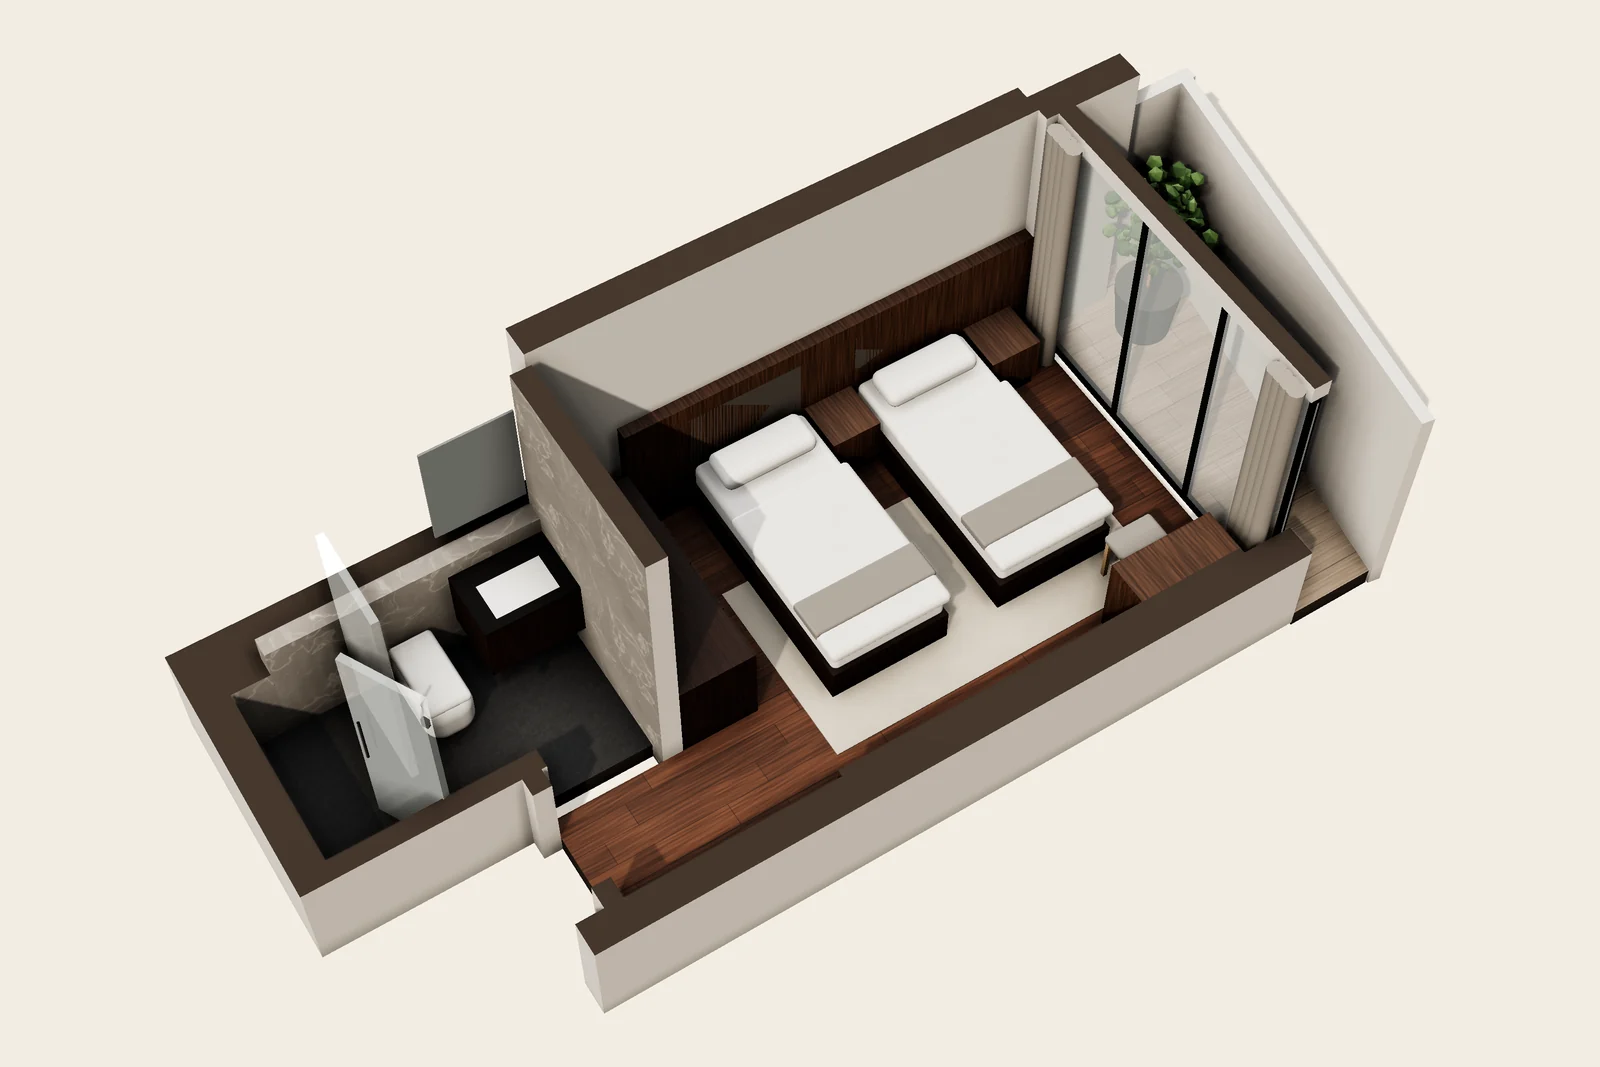
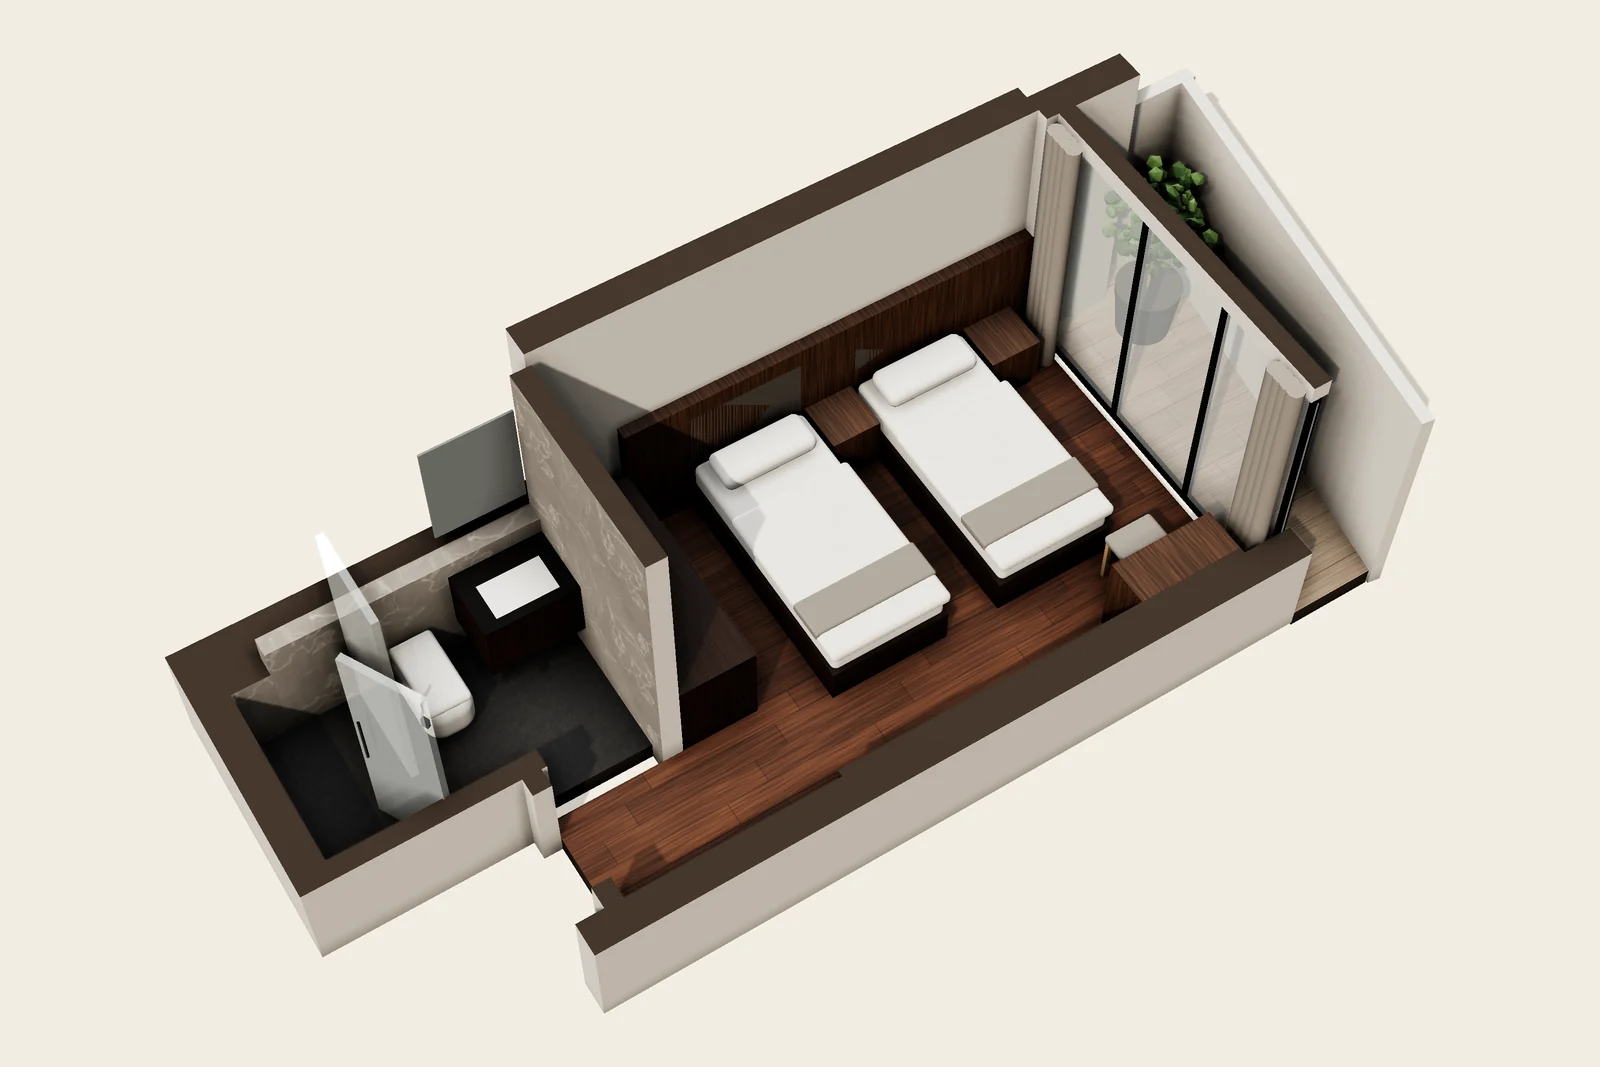
3D rooms: no rugs
The rooms don't have rugs (the plan draws them, the rooms don't), so
they're gone from the pictures and the explorable 3D view.

Changed region(s): [[0.4375, 0.4639, 0.7188, 0.7113]]

diff --git a/assets/js/rooms3d.js b/assets/js/rooms3d.js
@@ -152,7 +152,6 @@ export function materials() {
     walnut: texture(1024, 1.2, veneer({ seed: 5, dark: 0x3a2619, light: 0x6e4a32 })),
     marble: texture(1024, 1.2, marble({ seed: 11, base: 0x9a948d, vein: 0xd9d4cc })),
     granite: texture(512, 0.6, speckle({ seed: 13, base: 0x2d2c2b, amount: 0.04 })),
-    rug: texture(512, 0.8, cloth({ seed: 17, base: 0xd3c8b8, amp: 9 })),
     limestone: texture(1024, 2.4, tiles({ seed: 23, base: 0xe4ddd1, vein: 0xf1ece4, cols: 2, rows: 4 })),
     darkStone: texture(1024, 1.2, marble({ seed: 29, base: 0x3a3836, vein: 0xbdb8b0 })),
     tile: texture(1024, 2.4, tiles({ seed: 31, base: 0x8d8a85, vein: 0x9b9893, cols: 2, rows: 4 })),
@@ -183,7 +182,6 @@ export function materials() {
     upholstery: std({ color: 0x55504b, roughness: 0.95 }),
     seat: std({ color: 0x8f8a83, roughness: 0.95 }),
     oak: std({ color: 0xc8a57a, roughness: 0.6 }),
-    rug: std({ map: tex.rug, roughness: 1 }),
     curtain: std({ color: 0x9b948b, roughness: 1 }),
     black: std({ color: 0x1c1c1c, roughness: 0.35, metalness: 0.3 }),
     chrome: std({ color: 0xd8d8d8, roughness: 0.15, metalness: 1 }),
@@ -416,8 +414,6 @@ export class Builder {
       this.wall(...g, { h0: 0.02, h1: h - 0.02, mat: "black", furniture: true, follow: body });
     }
   }
-
-  rug(x0, y0, x1, y1) { this.box(x0, y0, x1, y1, 0, 0.012, "rug"); }
 
   // Curtain gathered at the side of a window: a row of vertical folds.
   curtain(x0, y0, x1, y1) {
@@ -719,7 +715,6 @@ export const ROOMS = {
       b.nightstand(472, 62, 527, 110);
       b.desk(180, 62, 282, 130, "w");
       b.stool(236, 150);
-      b.rug(248, 163, 505, 348);
       b.curtain(161, 197, 177, 237);
       b.curtain(161, 364, 177, 404);
     },
@@ -762,7 +757,6 @@ export const ROOMS = {
       b.nightstand(292, 712, 346, 758);                               // between the beds
       b.desk(118, 445, 215, 482, "w");
       b.stool(168, 500);
-      b.rug(138, 492, 500, 680);
       b.curtain(91, 567, 107, 607);
       b.curtain(91, 728, 107, 768);
     },
@@ -805,7 +799,6 @@ export const ROOMS = {
       b.nightstand(588, 64, 630, 111);
       b.desk(291, 64, 397, 135, "w");
       b.stool(344, 152);
-      b.rug(346, 180, 638, 364);
       b.curtain(262, 99, 278, 139);
       b.curtain(262, 362, 278, 402);
       b.plant(190, 105, 45);
@@ -850,7 +843,6 @@ export const ROOMS = {
       b.nightstand(396, 722, 444, 770);                               // between the beds
       b.desk(227, 440, 327, 482, "w");
       b.stool(277, 500);
-      b.rug(254, 492, 586, 676);
       b.curtain(198, 436, 214, 476);
       b.curtain(198, 728, 214, 768);
       b.plant(105, 725, 50);
@@ -927,7 +919,6 @@ export const ROOMS = {
       b.nightstand(535, 65, 593, 115);
       b.nightstand(777, 65, 835, 115);
       b.wardrobe(890, 47, 960, 253, "w");
-      b.rug(540, 180, 830, 362);
       b.curtain(501, 77, 515, 117);
       b.curtain(501, 358, 515, 398);
       b.ledge(500, 752, 795, 770);
@@ -1222,7 +1213,6 @@ function elysia(b, beds) {
     b.hungDesk(1299, 58, 1377, 146);   // the twin suite has only a small desk beside the bed
     b.stool(1335, 158);
   }
-  if (beds === "queen") b.rug(1411, 185, 1706, 430);   // the twin suite's plan has no rug
   b.curtain(1699, 92, 1715, 132);
   b.curtain(1699, 348, 1715, 388);
 }
